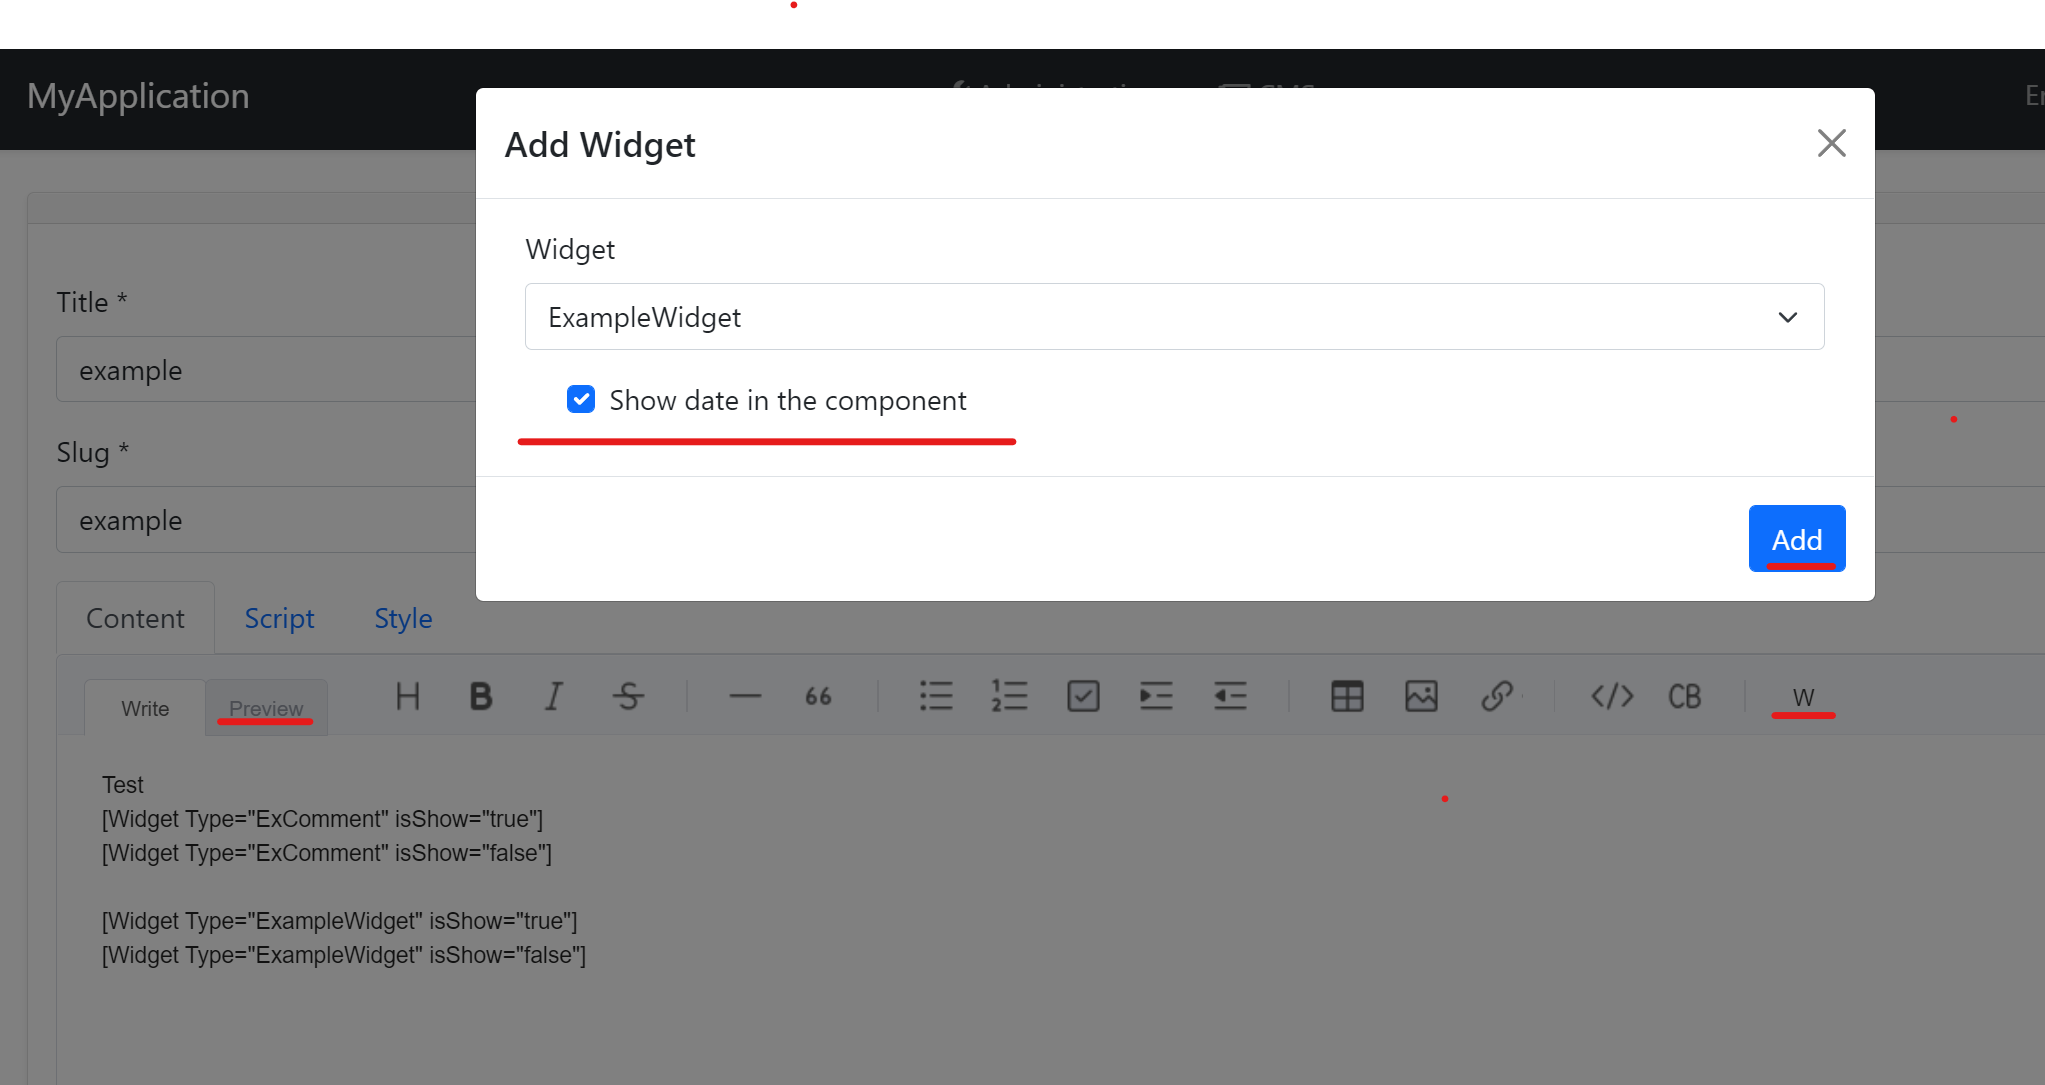
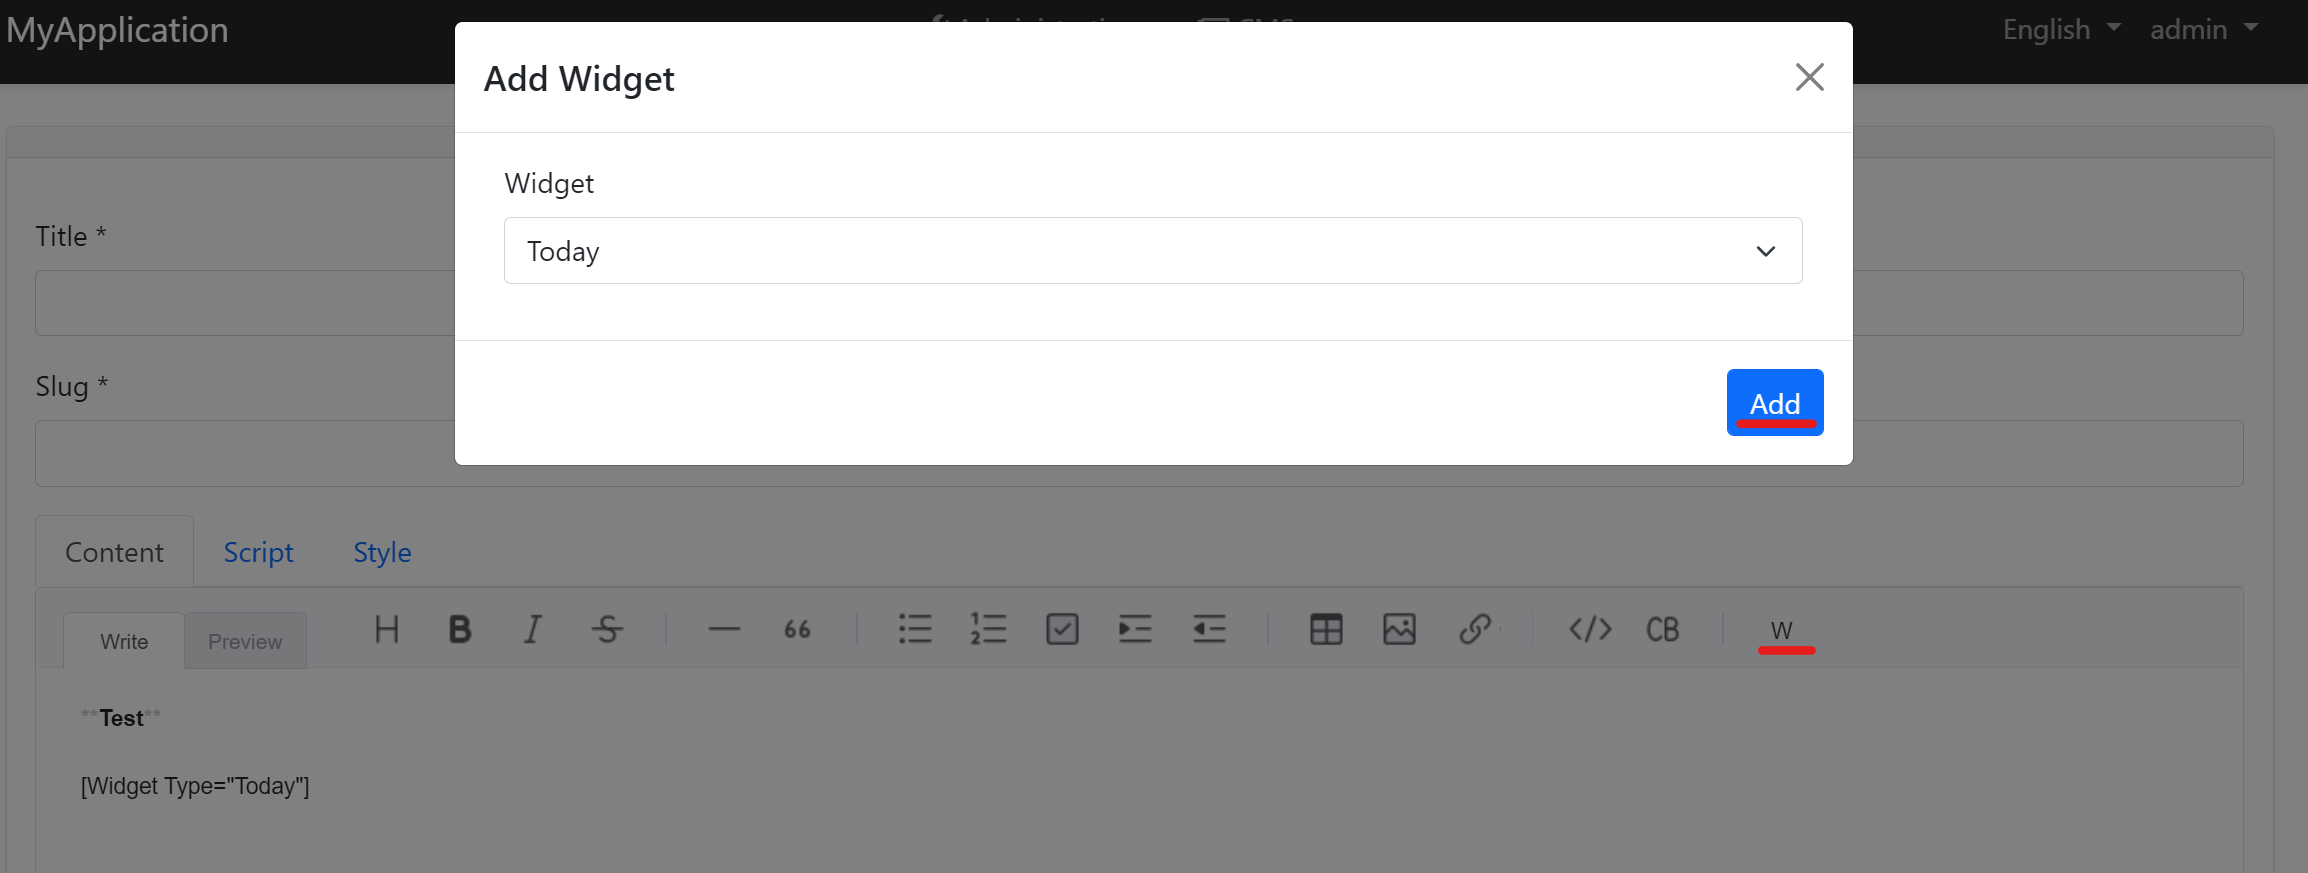
Updated the doc

diff --git a/docs/en/Modules/Cms-Kit/Dynamic-Widget.md b/docs/en/Modules/Cms-Kit/Dynamic-Widget.md
@@ -1,6 +1,121 @@
 # Dynamic Widget
 
-CMS kit provides a widget system to render dynamic [widgets](https://docs.abp.io/en/abp/latest/UI/AspNetCore/Widgets) in pages and blog posts. Its means, that in static content you can use dynamic content. We will mention how you can do it.
+CMS kit provides a dynamic [widget](https://docs.abp.io/en/abp/latest/UI/AspNetCore/Widgets) used to render the components previously developed by the software in the content of the pages and blog posts. Its means, that in static content you can use dynamic content. We will mention how you can do it. You have two choices to define the widget in the system: Writing and with UI.
+
+### Adding the widget
+Firstly we will show how to using the widget system via writing manually in the page and blogpost contents.
+
+Let's define the view component
+
+```csharp
+[Widget]
+[ViewComponent(Name = "CmsToday")]
+public class TodayViewComponent : AbpViewComponent
+{
+    public IViewComponentResult Invoke()
+    {
+        return View("~/ViewComponents/Today.cshtml",
+         new TodayViewComponent());
+    }
+} 
+```
+
+```html
+@model Volo.CmsKit.ViewComponents.TodayViewComponent
+
+<p>Welcome Today Component</p>
+<p>@DateTime.Now.ToString()</p>
+
+```
+
+Now configuration time on YourModule.cs
+```csharp
+Configure<CmsKitContentWidgetOptions>(options =>
+    {
+        options.AddWidget("Today","CmsToday");
+    }); 
+```
+
+Now you're ready to add your widget by writing.
+[Widget Type="Today"]
+
+After completing the above steps, you should see the above screenshot by going `Pages/Slug`
+![cmskit-without-parameter.png](../../images/cmskit-without-parameter.png)
+
+### Adding by using UI 
+Now we will mention the second option, using UI.
+Once writing these definitions can make some mistakes hence we added a new feature to use widget system easily. To the right of the editor, you will see the customized `W` button to add a dynamic widget like the below image. Don't forget please this is design mode and you need to view your page in view mode after saving. Also `Preview` tab on the editor will be ready to check your output easily for widget configurations in the next features.
+
+![cms-kit-page-editor](../../images/cms-kit-page-editor.png)
+
+### Adding by using UI with parameters
+Let's improve the above example by adding a new parameter named format. Via this feature, we can use the widget system with many different scenrios but not prolonging the document. Also these examples can be expandable with dependendency injection and getting values from database, but we will use an basic example. We will add format parameter to customize the date.
+
+```csharp
+[Widget]
+[ViewComponent(Name = "CmsToday")]
+public class TodayViewComponent : AbpViewComponent
+{
+    public string Format { get; set; }
+
+    public IViewComponentResult Invoke(string format)
+    {
+        return View("~/ViewComponents/Today.cshtml",
+         new TodayViewComponent() { Format = format });
+    }
+} 
+```
+
+```html
+@model Volo.CmsKit.ViewComponents.TodayViewComponent
+
+<p>Welcome Today Component</p>
+<p>@DateTime.Now.ToString(Format)</p>
+
+```
+
+Let's define the format component.
+```csharp
+[Widget]
+[ViewComponent(Name = "Format")]
+public class FormatViewComponent : AbpViewComponent
+{
+    public IViewComponentResult Invoke()
+    {
+        return View("~/ViewComponents/Format.cshtml",
+         new FormatViewModel());
+    }  
+}
+
+public class FormatViewModel
+{
+    [DisplayName("Format your date in the component")]
+    public string Format { get; set; }
+}
+```
+> Important Note: To get properties properly you should set the `name` property on the razor page or you may use the ABP component. ABP handles that automatically.
+
+```html
+@using Volo.CmsKit.ViewComponents
+@model FormatViewModel
+
+<div>
+    <abp-input asp-for="Format" />
+</div>
+```
+
+```csharp
+Configure<CmsKitContentWidgetOptions>(options =>
+    {
+        options.AddWidget("Today", "CmsToday", "Format");
+    }); 
+```
+
+![cmskit-module-editor-parameter](../../images/cmskit-module-editor-parameter.png)
+
+In this image, after choosing your widget (on the other case, it changes automatically up to your configuration, mine is `Today`. Its parameter name `parameterWidgetName` and its value is `Format`) you will see the next widget. Enter input values or choose them and click `Add`. You will see the underlined output in the editor. Right of the image, also you can see its previewed output.
+
+You can edit this output manually if do any wrong coding for that (wrong value or typo) you won't see the widget, even so, your page will be viewed successfully. 
 
 ## Options 
 To configure the widget, you should define the below code in YourModule.cs 
@@ -8,69 +123,15 @@ To configure the widget, you should define the below code in YourModule.cs
 ```csharp
 Configure<CmsKitContentWidgetOptions>(options =>
     {
-        options.AddWidget(widgetKey: "ExampleWidget", widgetName: "ExampleDate", editorWidgetName: "ExampleModalDate");
+        options.AddWidget(widgetType: "Today", widgetName: "CmsToday", parameterWidgetName: "Format");
     }); 
 ```
 
 Let's look at these parameters in detail
-* `widgetKey` is used for end-user and more readable names. The following bold word represents widgetKey.
-[Widget Type="**ExampleWidget**" IsShow="true"]
-> This output is only an example. It changes according to your modal widget (`editorWidgetName`).
+* `widgetType` is used for end-user and more readable names. The following bold word represents widgetType.
+[Widget Type="**Today**" Format="yyyy-dd-mm HH:mm:ss"].
 
 * `widgetName` is used for your widget name used in code for the name of the `ViewComponent`.
-```csharp
-[Widget]
-[ViewComponent(Name = "ExampleDate")]
-public class ExampleDateViewComponent : AbpViewComponent
-{
-    public IViewComponentResult Invoke(string isShow)
-    {
-        return View("YourRazorPage.cshtml", 
-        new ExampleDateModel() { IsShow = bool.Parse(isShow) });
-    }
-} 
-```
-```html
-<p>Welcome Comment Date Component</p>
-@if (Model.IsShow)
-{
-    <p> @DateTime.Today.ToLongDateString()</p>
-}
-else
-{
-    <p>Without date</p>
-}
-```
-* `editorWidgetName` is used the for editor component side to see on the `Add Widget` modal.
-After choosing the widget type from listbox (now just defined `ExampleWidget`) and renders this widget automatically.
 
-```csharp
-[Widget]
-[ViewComponent(Name = "ExampleModalDate")]
-public class ExampleModalDateViewComponent : AbpViewComponent
-{
-    public IViewComponentResult Invoke()
-    {
-        return View("YourModalRazorPage.cshtml", 
-        new ExampleModalDateViewModel() { IsShow = bool.Parse(isShow) });
-    }
-}
-```
-> Important Note: To get properties properly you should set the `name` property on the razor page or you may use the ABP component. ABP handles that automatically.
-
-```html
- <abp-input asp-for="IsShow" />
-```
-
-Now ready to see the changes at the Page/Blogpost create/update pages. To the right of the editor, you will see the customized `W` button to add a dynamic widget like the below image. Don't forget please this is design mode and you need to view your page in view mode after saving. Also `Preview` tab on the editor will be ready to check your output easily for widget configurations in the next features.
-
-![cms-kit-page-editor](../../images/cms-kit-page-editor.png)
-
-In this image, after choosing your widget (on the other case, it changes automatically up to your configuration, mine is `Example Widget`. Its parameter name `editorWidgetName` and its value is `ExampleModalDate`) you will see the next widget. Enter input values or choose them and click `Add`. You will see the below output.
-
-> [Widget Type="ExampleWidget" IsShow="true"]
-
-You can edit this output manually if do any wrong coding for that (wrong value or typo) you won't see the widget (ex, the first two lines have wrong values in the editor and they aren't shown in view mode), even so, your page will be viewed successfully. 
-
-After completing the above steps, you should see the above screenshot by going `Pages/Slug`
-![cms-kit-widget-preview](../../images/cms-kit-widget-preview.png)
+* `parameterWidgetName` is used the for editor component side to see on the `Add Widget` modal.
+After choosing the widget type from listbox (now just defined `Format`) and renders this widget automatically. It's required only to see UI once using parameters
